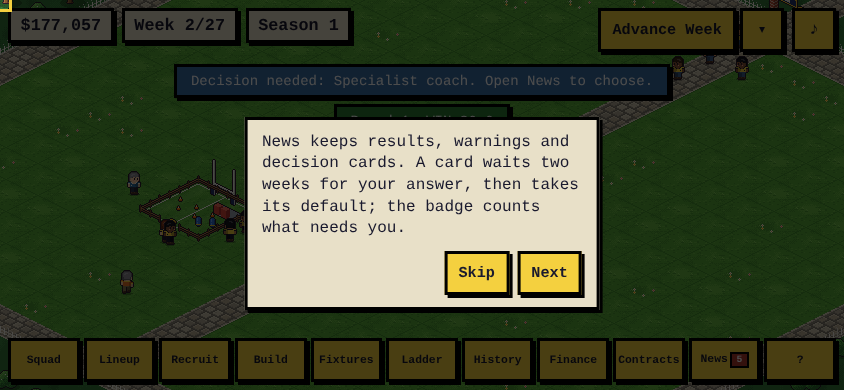
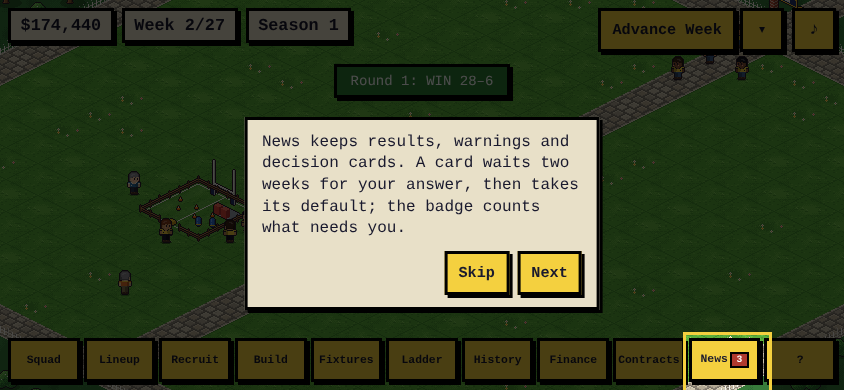
Tutorial: an anchor must be on screen (the nav is hidden during a match)
Claude-Session: https://claude.ai/code/session_01K1S46mK9mgifGa8AS9jWCj

diff --git a/src/ui/tutorial.ts b/src/ui/tutorial.ts
@@ -278,13 +278,20 @@ function renderStep(): void {
   }
 }
 
-/** Look up an anchor within the UI overlay (falls back to whole document). */
+/**
+ * Look up an anchor within the UI overlay (falls back to whole document). An
+ * element that is in the DOM but not on screen (the nav is display:none during
+ * a match) does not count: a cutout drawn around a zero-size box lands in the
+ * corner, so the step keeps polling until the box is real.
+ */
 function findAnchor(selector: string): HTMLElement | null {
   const root: ParentNode = document.getElementById('ui-root') ?? document;
-  return (
+  const found =
     (root.querySelector(selector) as HTMLElement | null) ??
-    (document.querySelector(selector) as HTMLElement | null)
-  );
+    (document.querySelector(selector) as HTMLElement | null);
+  if (!found) return null;
+  const r = found.getBoundingClientRect();
+  return r.width > 0 && r.height > 0 ? found : null;
 }
 
 /** Centre the anchor in view before highlighting (mobile-friendly). */
